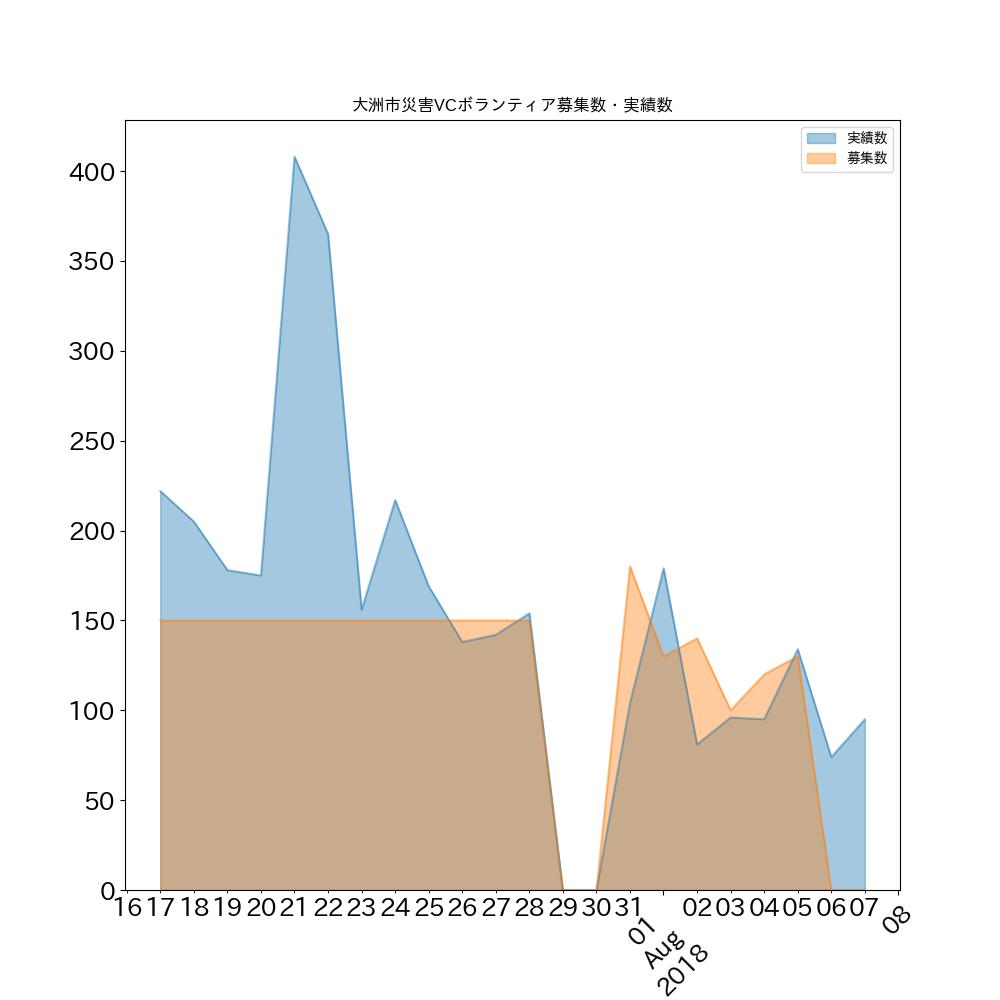
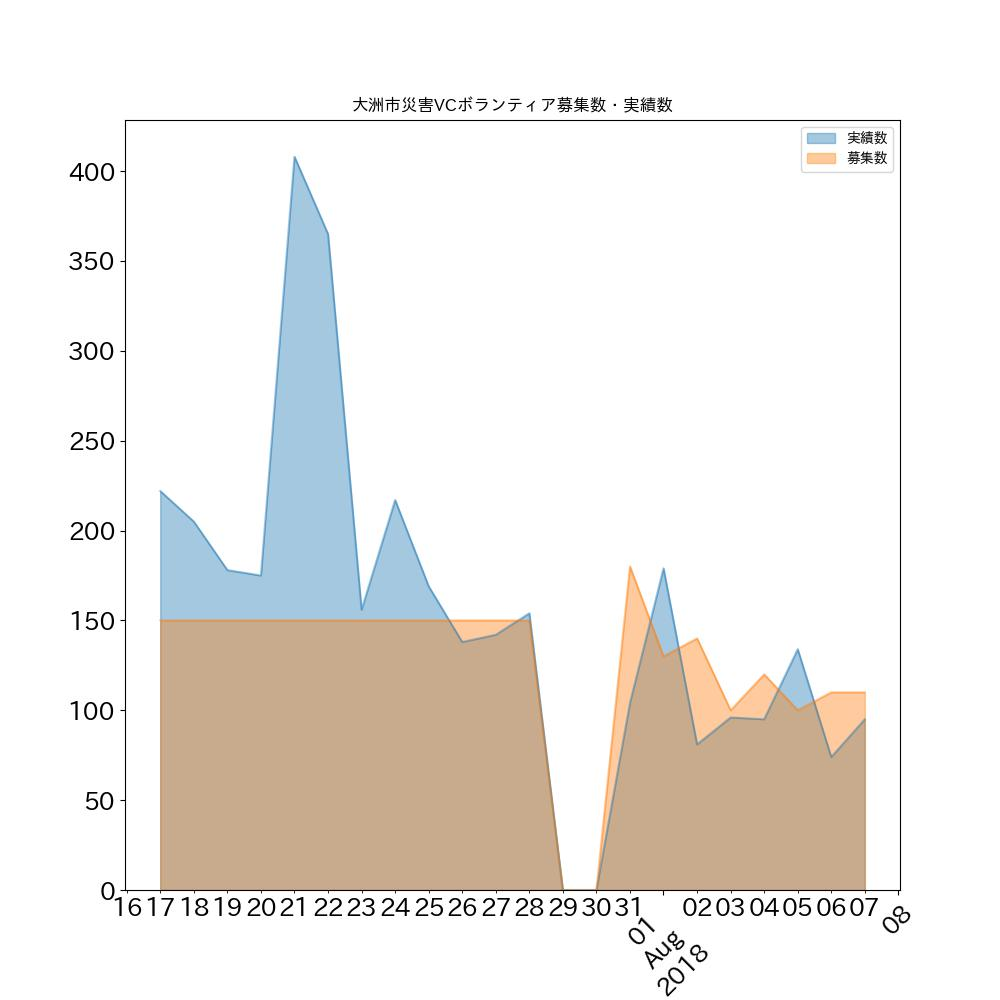
募集人衆を反映

Changed region(s): [[0.744, 0.651, 0.868, 0.899]]

diff --git a/script/generate_volunteer_count/volunteer_graph_exporter.py b/script/generate_volunteer_count/volunteer_graph_exporter.py
@@ -15,13 +15,15 @@ import datetime as dt
 font = {'family': 'IPAexGothic'}
 matplotlib.rc('font', **font)
 import os
-# import gspread as gs
+import gspread as gs
 from PIL import Image
 
-#from oauth2client.service_account import ServiceAccountCredentials
+from oauth2client.service_account import ServiceAccountCredentials
 
 WEEKLY_GRAPH='./assets/images/volunteer_count_week.png'
 DAILY_GRAPH='./assets/images/volunteer_count.png'
+IMAGE_BASE_PATH = './assets/images/volunteer_headcount/'
+IMAGE_NAME='{}_volunteer_headcount_diff_{}.png'
 
 # In[33]:
 
@@ -34,12 +36,12 @@ def load_data_from_site():
     return df.rename(columns={'日付': 'Date'})
 
 
-# def create_google_client(path):
-#     scope = ['https://spreadsheets.google.com/feeds']
-#     path = os.path.expanduser(path)
-#     credentials = ServiceAccountCredentials.from_json_keyfile_name(path, scope)
-#     client = gs.authorize(credentials)
-#     return client
+def create_google_client(path):
+    scope = ['https://spreadsheets.google.com/feeds']
+    path = os.path.expanduser(path)
+    credentials = ServiceAccountCredentials.from_json_keyfile_name(path, scope)
+    client = gs.authorize(credentials)
+    return client
 
 def save_as_jpeg(path):
     path_jpg = path.replace('png', 'jpg')
@@ -47,19 +49,57 @@ def save_as_jpeg(path):
 
 # In[34]:
 
-# def load_data_from_gspread():
+def load_data_from_gspread(sheet_name, columns=None):
+    if columns == None:
+        columns = ['Date','宇和島市','大洲市','西予市','今治市','松山市']
 
-#     path = '/Users/kkd/.credential/Dataprep-770b3144dc97.json'
-#     doc_url = 'https://docs.google.com/spreadsheets/d/1h-GFHoNa55P96wu_HNbPk899eN4HZcnu1T9q4eag8Uc/edit?usp=sharing'
+    path = '/Users/kkd/.credential/Dataprep-770b3144dc97.json'
+    doc_url = 'https://docs.google.com/spreadsheets/d/1h-GFHoNa55P96wu_HNbPk899eN4HZcnu1T9q4eag8Uc/edit?usp=sharing'
 
-#     client = create_google_client(path)
-#     gfile = client.open_by_url(doc_url)
-#     worksheet = gfile.worksheet('volunteer')
-#     records = worksheet.get_all_values()
-#     cols_name = records[0]
-#     data = records[1:]
-#     df = pd.DataFrame(data=data, columns=cols_name)
-#     return df[['Date','宇和島市','大洲市','西予市','今治市','松山市']]
+    client = create_google_client(path)
+    gfile = client.open_by_url(doc_url)
+    worksheet = gfile.worksheet(sheet_name)
+    records = worksheet.get_all_values()
+    cols_name = records[0]
+    data = records[1:]
+    df = pd.DataFrame(data=data, columns=cols_name)
+    return df[columns]
+
+def df_with_date_index(df):
+    df['Date'] = pd.to_datetime(df['Date'], format='%Y-%m-%d')
+    return df.set_index('Date').fillna(0).replace('',0).applymap(int)
+
+def generate_voluneer_needs_actual_graph(location, df1, df2):
+    df = pd.DataFrame([df1[location], df2[location]]).T
+    df.columns=['実績数','募集数']
+    df.index.name='日付'
+    df = df.sort_index()
+    df.fillna(0, inplace=True)
+    ax = df['2018-07-17':].plot(kind='area', 
+                               figsize=(10,10),
+                               alpha=0.4, 
+                               stacked=False, 
+                               fontsize=18,
+                               title="{}災害VCボランティア募集数・実績数".format(location))
+    fig = ax.get_figure()
+    for tick in ax.get_xticklabels():
+        tick.set_rotation(45)
+
+    from datetime import datetime as dt
+    today = dt.now().strftime("%Y%m%d")        
+
+    fig.savefig(IMAGE_BASE_PATH + IMAGE_NAME.format(location, today))
+    save_as_jpeg(IMAGE_BASE_PATH +  IMAGE_NAME.format(location, today))
+    return df
+
+def generate_ratio_of_volunteer_needs(df, df_needed):
+    df_actual = df.iloc[:, [0,1,2,3]]
+    df_needed = df_with_date_index(df_needed.iloc[:, [0,1,2,3]])
+
+    generate_voluneer_needs_actual_graph('宇和島市', df_actual, df_needed)
+    generate_voluneer_needs_actual_graph('大洲市', df_actual, df_needed)
+    generate_voluneer_needs_actual_graph('西予市', df_actual, df_needed)
+
 
 # ## ８日以内のデータのみフィルタする
 def filter_within_week(df):
@@ -128,6 +168,7 @@ def generage_week_graph(df):
     # df2.index = df2.index.strftime("%m/%d")
     df2 = df2.applymap(float)
     df_w = df2.resample('W').sum()
+    df_w.index = df_w.index.strftime("%m/%d週")
     ax = df_w.T.plot(kind='bar',
                         # figsize=(16,10), 
                         figsize=(8,8), 
@@ -142,8 +183,7 @@ def generage_week_graph(df):
     fig = ax.get_figure()
     for tick in ax.get_xticklabels():
         tick.set_rotation(45)
-    plt.legend(df_w.index.strftime("%m/%d週"),
-                    fontsize=18)
+    plt.legend(df_w.index, fontsize=18)
     fig.savefig(WEEKLY_GRAPH)
     save_as_jpeg(WEEKLY_GRAPH)
     return df_w
@@ -175,8 +215,8 @@ def generate_diff_table(df):
  大洲市  | {ozu_diff_yesterday_icon}{ozu_diff_yesterday_num} | {ozu_diff_lastweek_icon}{ozu_diff_lastweek_num}
  西予市  | {seiyo_diff_yesterday_icon}{seiyo_diff_yesterday_num} | {seiyo_diff_lastweek_icon}{seiyo_diff_lastweek_num}
 '''
-    df_yesterday = diff_another_day(df, 1)
-    df_lastweek = diff_another_day(df, 7)
+    df_yesterday = diff_another_day(df, 2)
+    df_lastweek = diff_another_day(df, 8)
 
     return diff_table.format(
         uwa_diff_yesterday_icon=choose_icon(df_yesterday['宇和島市']),
@@ -199,10 +239,13 @@ def write_article(table_diff, table_d, table_w):
     with open('./script/generate_volunteer_count/template.md') as f:
         template = f.read()
         
+        ymd = dt.now().strftime('%Y%m%d')
         month_day = dt.now().strftime('%m/%d')
         timestamp = dt.now().strftime("%Y-%m-%d %H:%M:%S")
         
-        report = template.format(month_day=month_day, 
+        report = template.format(
+                        dateYMD=ymd,
+                        month_day=month_day, 
                         timestamp=timestamp, 
                         table_diff=table_diff,
                         table_d=table_d, 
@@ -215,8 +258,10 @@ def write_article(table_diff, table_d, table_w):
 
 if __name__ == '__main__':
     # df = load_data_from_gspread()
+    df_want = load_data_from_gspread('want', ['Date','宇和島市','大洲市','西予市'])
     df = load_data_from_site()
     df = df.rename(index=lambda s: dt.datetime.strptime(s, '%m月%d日').replace(year=2018))
+    generate_ratio_of_volunteer_needs(df, df_want)
     df_d = generate_graph_within_week(df)
     df_w = generage_week_graph(df)
     table_diff = generate_diff_table(df)
